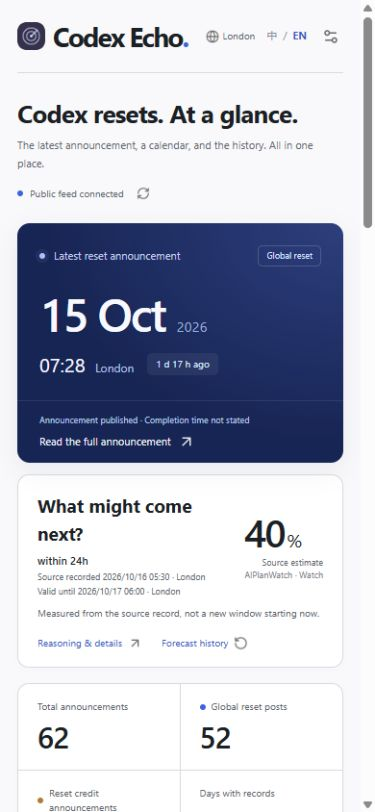
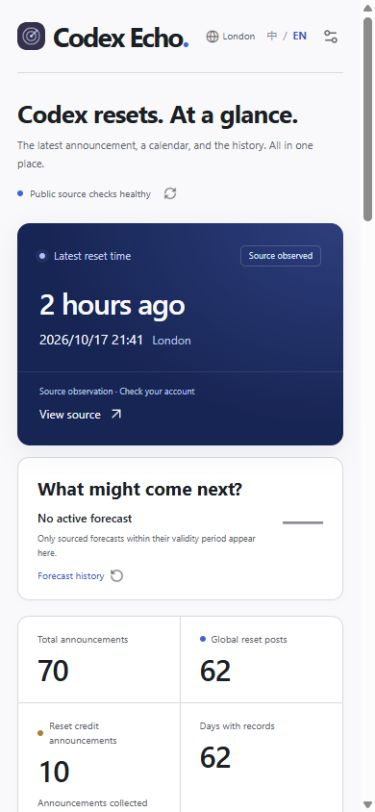
Refresh README screenshots and clarify reset time provenance

diff --git a/README.en.md b/README.en.md
@@ -8,7 +8,7 @@ See **the latest Codex reset announcement, upcoming plans, a history calendar an
 
 ## What you can do
 
-- **Follow reset news:** see how long ago the latest reset occurred for the first 12 hours, then its date. Plans with a recognizable time show a countdown.
+- **Follow reset news:** see the latest available reset timestamp, with its source basis shown. Times under 12 hours old are relative; older times use a date. Plans with a recognizable time show a countdown.
 - **Check completion status:** distinguish awaiting confirmation, a reset observed by a source and Tibo's explicit confirmation, with links to the evidence.
 - **Explore history:** browse announcements by publication date, view statistics and read collected Tibo posts.
 - **Get phone alerts:** connect your own Bark, choose reset or forecast alerts, adjust the forecast threshold and notification language, and unsubscribe at any time.
@@ -19,7 +19,7 @@ This is an independent project based on public sources, unaffiliated with OpenAI
 
 Dates, counts and forecasts in these screenshots are illustrative snapshots. Visit the website for current information.
 
-![Codex Echo desktop: latest announcement, forecast and history statistics](docs/images/desktop-en.png)
+![Codex Echo desktop: latest reset time, forecast and history statistics](docs/images/desktop-en.png)
 
 <details>
 <summary>View the mobile layout and alert settings</summary>
@@ -80,7 +80,9 @@ These settings are independent: enabling page notifications does not connect Bar
 
 A definite reset commitment without a calculable time can trigger an advance notice, but no countdown is invented. A more specific plan posted later may trigger an additional plan alert.
 
-After completion is detected, the homepage shows “Time to enjoy GPT!” for 1 hour before returning to the regular overview. Historical records remain available.
+When completion evidence matches an existing reset plan, the homepage shows “Time to enjoy GPT!” until one hour after the earliest observation or confirmation, then returns to the regular overview. Historical records remain available.
+
+“Latest reset time” prefers a source-provided actual or observation time. If only a completion or reset announcement is available, it shows the publication time and labels the actual time as unknown. A planned time is never treated as a completed reset.
 
 A source observation or public announcement does not guarantee that every account has recovered. Calendar markers use announcement publication dates; announcement counts are not completed-reset totals or your personal available uses.
 

diff --git a/README.md b/README.md
@@ -8,7 +8,7 @@
 
 ## 能做什么
 
-- **查看重置动向**：突出最近重置时间，12 小时内显示距今多久，之后显示月日；有明确时间的重置计划会显示倒计时。
+- **查看重置动向**：突出最近可用的重置时间并标明依据，12 小时内显示距今多久，之后显示月日；有明确时间的重置计划会显示倒计时。
 - **了解完成状态**：区分等待确认、来源实测已重置和 Tibo 明确确认完成，并提供来源链接。
 - **回看历史**：用日历查看公告发布日期，浏览公告统计和已收录的 Tibo 推文。
 - **接收手机提醒**：自行绑定 Bark，选择重置或预测提醒、调整预测阈值和推送语言，随时退订。
@@ -19,7 +19,7 @@
 
 截图中的日期、数量和预测值仅供展示，最新信息请查看网页。
 
-![Codex 回响桌面网页：最近公告、预测和历史统计](docs/images/desktop-en.png)
+![Codex 回响桌面网页：最近重置时间、预测和历史统计](docs/images/desktop-en.png)
 
 <details>
 <summary>查看手机布局与提醒设置</summary>
@@ -80,7 +80,9 @@
 
 明确表示会重置、但没有可计算时间时，可以发送预告提醒，页面不会编造倒计时。后续出现具体计划时，还可能收到更明确的计划提醒。
 
-检测到完成后，首页显示「快去享受 GPT 吧！」，完成提示保留 1 小时后恢复日常概览；历史记录仍可查看。
+已有重置计划收到对应的完成证据后，首页显示「快去享受 GPT 吧！」，到最早观测或确认时间满 1 小时后恢复日常概览；历史记录仍可查看。
+
+「最近重置时间」优先使用来源提供的实际或观测时间；如果只有完成公告或普通重置公告，则显示公告时间并注明实际时间未知。计划时间不会作为已完成的重置时间。
 
 来源实测或公开公告均不保证所有账号已经恢复。日历按公告发布日期标记；公告数量也不等于实际完成次数或你的个人可用次数。
 
